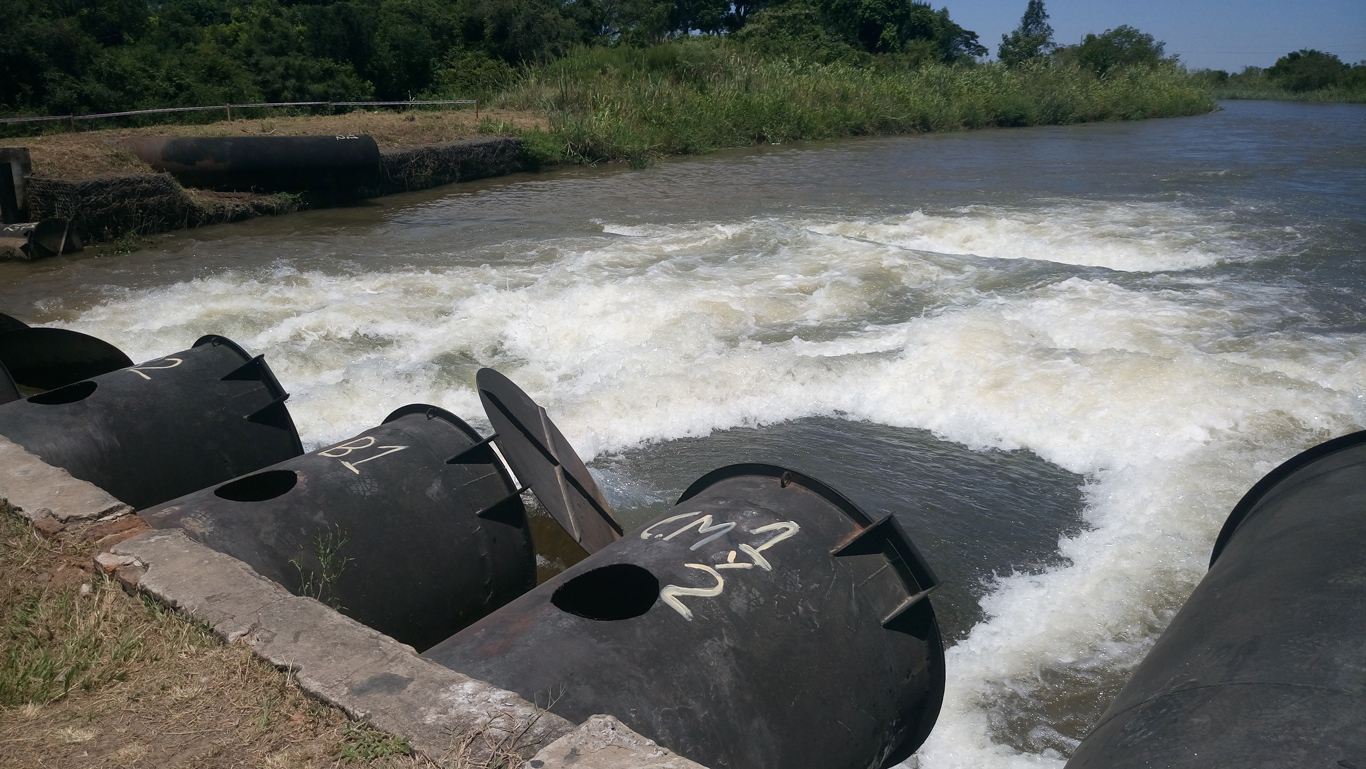
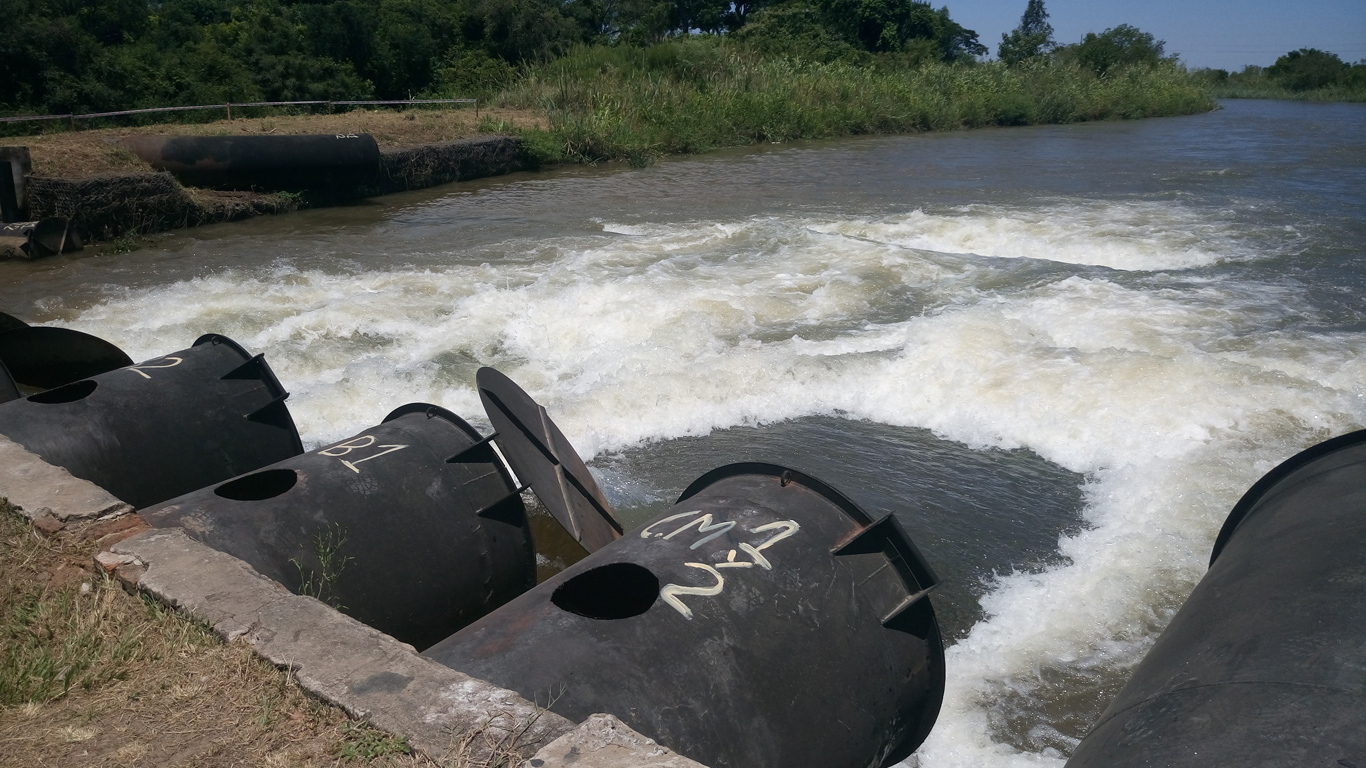
Imagenes alineadas (no finales)

diff --git a/index.html b/index.html
@@ -99,8 +99,8 @@
                                     </div>
                                 </div>
                                 <div class="carousel-item">
-                                    <img src="img/img-index/2.jpg" class="d-block d-md-none w-100 rounded img-fluid" alt="...">
-                                    <img src="img/img-index/20200718_171258.jpg" class="d-none d-md-block w-100 rounded img-fluid" alt="...">
+                                    <img src="img/img-index/bobinadoGrande.jpg" class="d-block d-md-none w-100 rounded img-fluid" alt="...">
+                                    <img src="img/img-index/bobinadoChico.jpg" class="d-none d-md-block w-100 rounded img-fluid" alt="...">
                                     <div class="carousel-caption">
                                         <h5>Estacion de bombeo Doña Marina</h5>
                                         <p>Yahape - Corrientes</p>
